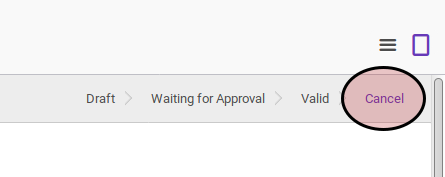
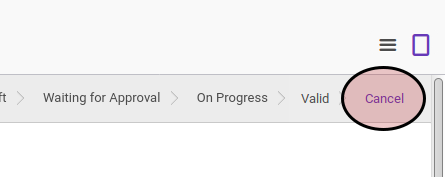
FA Improvemet - Confirm Approve Valid Cancel Restart

Changed region(s): [[0.0876, 0.5085, 0.6427, 0.5932], [0.0, 0.5085, 0.0292, 0.565]]

diff --git a/src/transaksi/asset-improvement/mengkonfirmasi.md b/src/transaksi/asset-improvement/mengkonfirmasi.md
@@ -1,1 +1,27 @@
 # Mengkonfirmasi Asset Improvement
+
+## A. INPUT
+
+* Data asset improvement yang dikonfirmasi harus memiliki status **Draft**
+
+![](../../img/asset-improvement/status-draft.png)
+
+* User yang akan mengkonfirmasi harus memiliki akses untuk mengkonfirmasi asset improvement.
+
+## B. LANGKAH KERJA
+
+1. Buka menu **Accounting -> Assets -> Impairment -> Improvement**. Abaikan jika sudah berada pada menu yang dimaksud.
+2. Buka data asset improvement yang akan dikonfirmasi. Abaikan jika data sudah dibuka.
+3. Klik tombol **Confirm** pada bagian atas-kiri form.
+
+![](../../img/asset-improvement/tombol-confirm.png)
+
+## C. OUTPUT
+
+* Status asset improvement akan berubah menjadi **Waiting for Approval**.
+
+![](../../img/asset-improvement/status-waiting.png)
+
+## D. KEMBALI KE MENU SEBELUMNYA
+
+[**Kembali ke menu Asset Improvement**](./../asset-improvement.md)

diff --git a/src/transaksi/asset-improvement/menyetujui.md b/src/transaksi/asset-improvement/menyetujui.md
@@ -1,1 +1,27 @@
 # Menyetujui Asset Improvement
+
+## A. INPUT
+
+* Data asset improvement yang divalidasi harus memiliki status **Waiting for Approval**
+
+![](../../img/asset-improvement/status-waiting.png)
+
+* User yang akan memvalidasi harus memiliki akses untuk memvalidasi asset improvement.
+
+## B. LANGKAH KERJA
+
+1. Buka menu **Accounting -> Assets -> Impairment -> Improvement**. Abaikan jika sudah berada pada menu yang dimaksud.
+2. Buka data asset improvement yang akan divalidasi. Abaikan jika data sudah dibuka.
+3. Klik tombol **Approved** pada bagian atas-kiri form.
+
+![](../../img/asset-improvement/tombol-approve.png)
+
+## C. OUTPUT
+
+* Status asset improvement akan berubah menjadi **On Progress**.
+
+![](../../img/asset-improvement/status-progress.png)
+
+## D. KEMBALI KE MENU SEBELUMNYA
+
+[**Kembali ke menu Asset Improvement**](./../asset-improvement.md)

diff --git a/src/transaksi/asset-improvement/membatalkan.md b/src/transaksi/asset-improvement/membatalkan.md
@@ -1,1 +1,27 @@
 # Membatalkan Asset Improvement
+
+## A. INPUT
+
+* Data asset improvement yang dibatalkan tidak boleh memiliki status **Cancel**.
+
+![](../../img/asset-improvement/status-cancel.png)
+
+* User yang akan membatalkan harus memiliki akses untuk membatalkan asset improvement.
+
+## B. LANGKAH KERJA
+
+1. Buka menu **Accounting -> Assets -> Impairment -> Improvement**. Abaikan jika sudah berada pada menu yang dimaksud.
+2. Buka data asset improvement yang akan dibatalkan. Abaikan jika data sudah dibuka.
+3. Klik tombol **Cancel** pada bagian atas-kiri form.
+
+![](../../img/asset-improvement/tombol-cancel.png)
+
+## C. OUTPUT
+
+* Status asset improvement akan berubah menjadi **Cancel**.
+
+![](../../img/asset-improvement/status-cancel.png)
+
+## D. KEMBALI KE MENU SEBELUMNYA
+
+[**Kembali ke menu Asset Improvement**](./../asset-improvement.md)

diff --git a/src/transaksi/asset-improvement/memvalidasi.md b/src/transaksi/asset-improvement/memvalidasi.md
@@ -1,1 +1,27 @@
 # Memvalidasi Asset Improvement
+
+## A. INPUT
+
+* Data asset improvement yang divalidasi harus memiliki status **On Progress**
+
+![](../../img/asset-improvement/status-progress.png)
+
+* User yang akan memvalidasi harus memiliki akses untuk memvalidasi asset improvement.
+
+## B. LANGKAH KERJA
+
+1. Buka menu **Accounting -> Assets -> Impairment -> improvement**. Abaikan jika sudah berada pada menu yang dimaksud.
+2. Buka data asset improvement yang akan divalidasi. Abaikan jika data sudah dibuka.
+3. Klik tombol **Valid** pada bagian atas-kiri form.
+
+![](../../img/asset-improvement/tombol-valid.png)
+
+## C. OUTPUT
+
+* Status asset improvement akan berubah menjadi **Valid**.
+
+![](../../img/asset-improvement/status-valid.png)
+
+## D. KEMBALI KE MENU SEBELUMNYA
+
+[**Kembali ke menu Asset Improvement**](./../asset-improvement.md)

diff --git a/src/transaksi/asset-improvement/merestart.md b/src/transaksi/asset-improvement/merestart.md
@@ -1,1 +1,27 @@
 # Merestart Asset Improvement
+
+## A. INPUT
+
+* Data asset improvement yang direstart harus memiliki status **Cancel**
+
+![](../../img/asset-improvement/status-cancel.png)
+
+* User yang akan merestart harus memiliki akses untuk merestart asset improvement.
+
+## B. LANGKAH KERJA
+
+1. Buka menu **Accounting -> Assets -> Impairment -> Improvement**. Abaikan jika sudah berada pada menu yang dimaksud.
+2. Buka data asset improvement yang akan direstart. Abaikan jika data sudah dibuka.
+3. Klik tombol **Restart** pada bagian atas-kiri form.
+
+![](../../img/asset-improvement/tombol-restart.png)
+
+## C. OUTPUT
+
+* Status asset improvement akan berubah menjadi **Draft**.
+
+![](../../img/asset-improvement/status-draft.png)
+
+## D. KEMBALI KE MENU SEBELUMNYA
+
+[**Kembali ke menu Asset Improvement**](./../asset-improvement.md)
